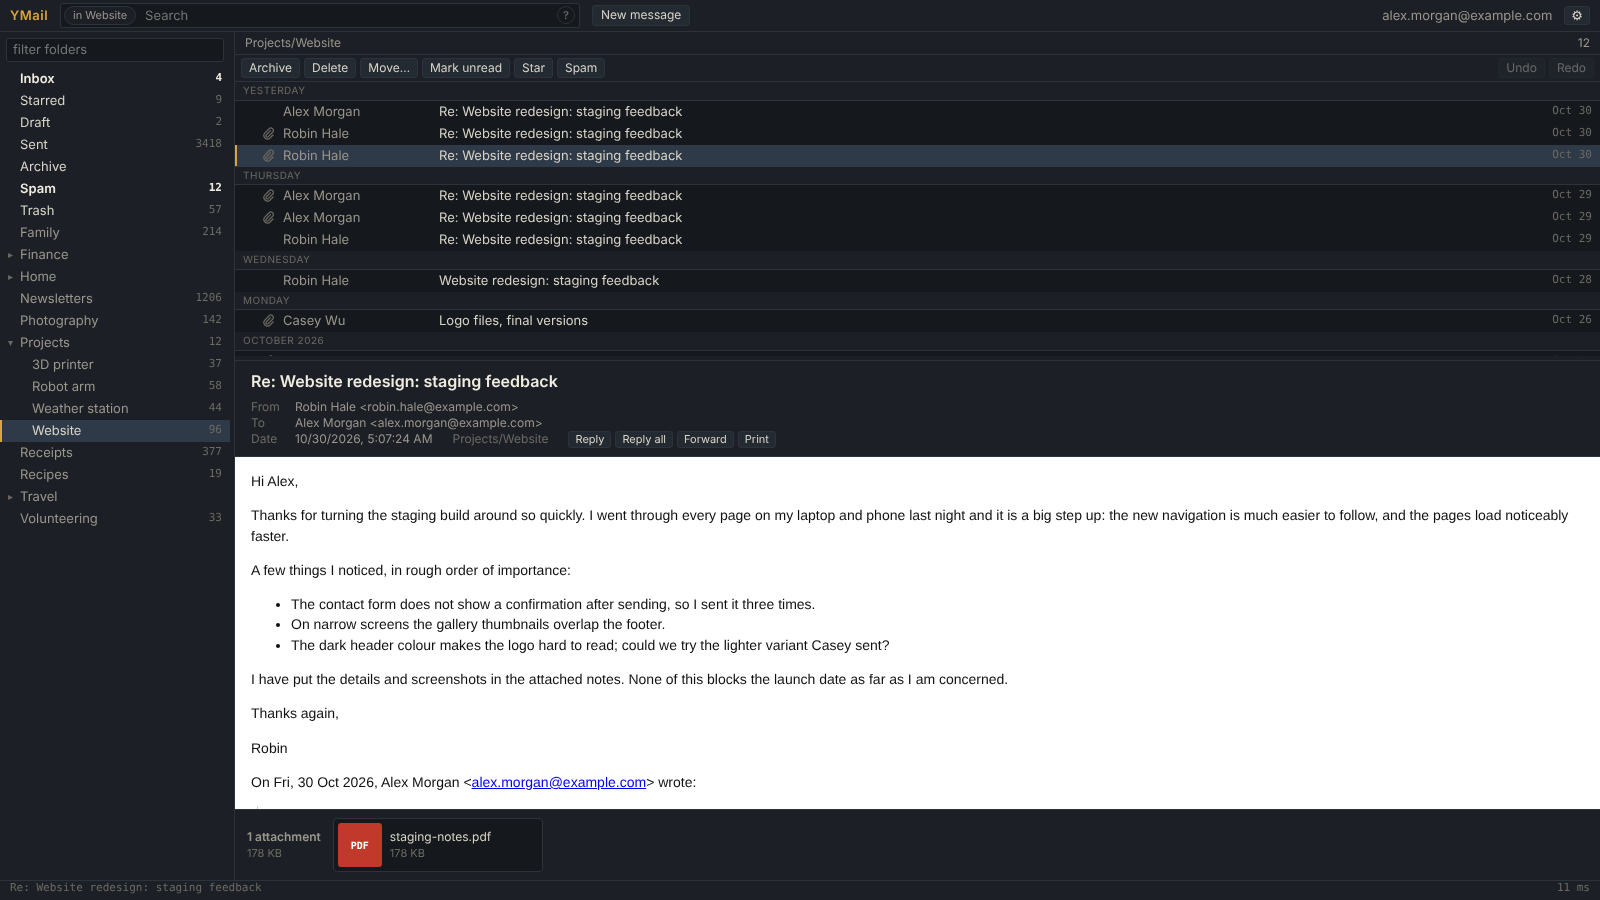
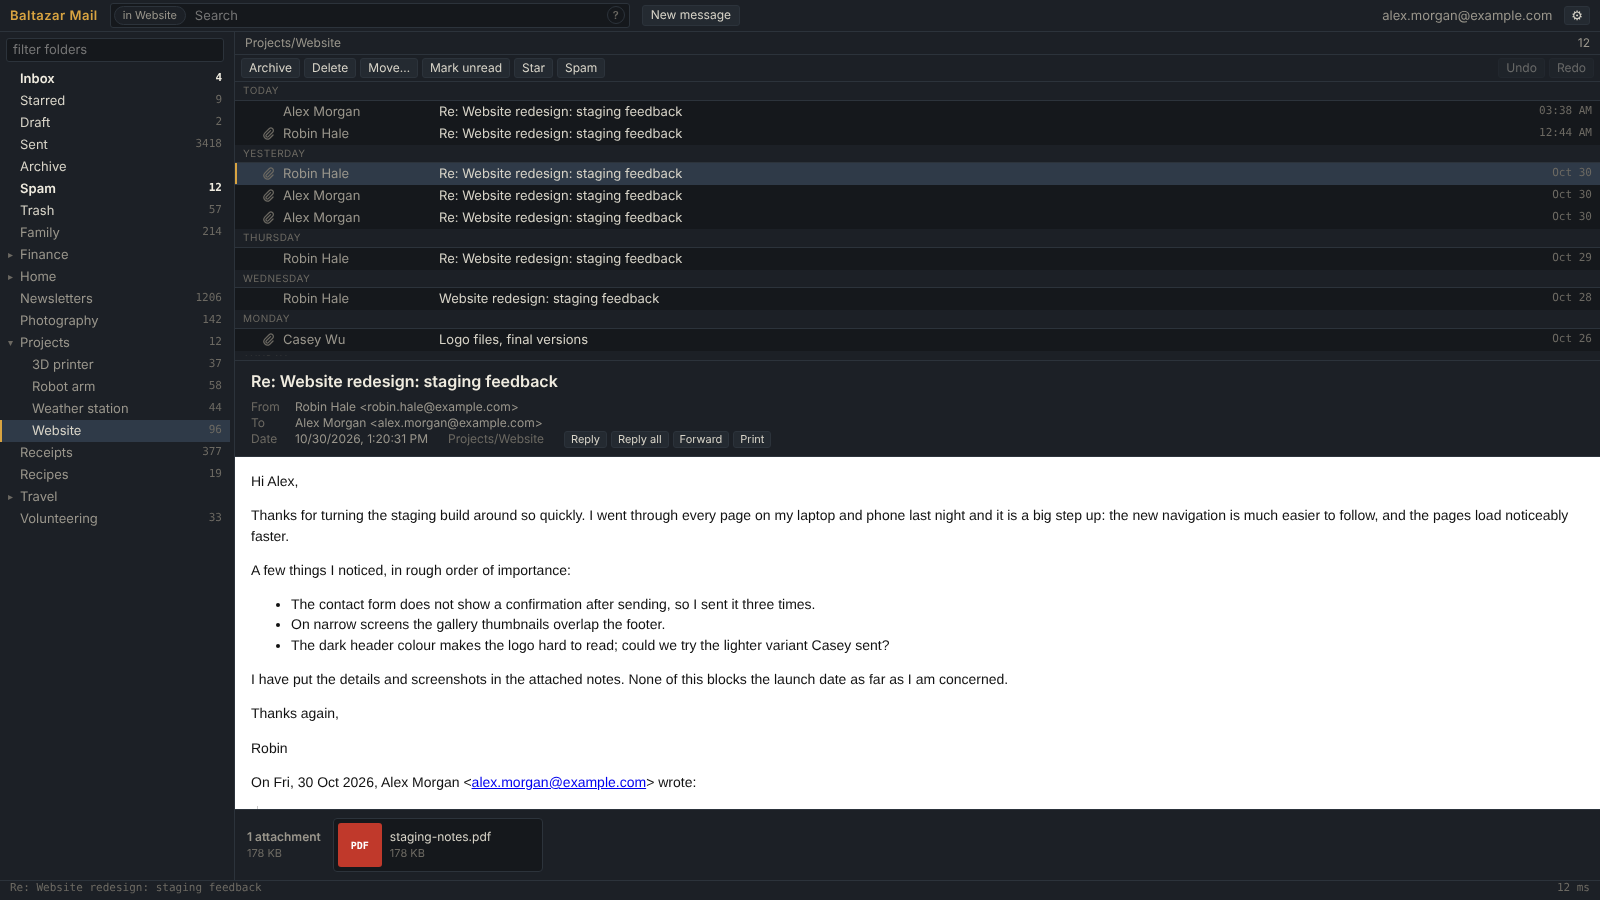
Rename to Baltazar Mail and license under MIT
The name ties the project to Baltazar Studios and avoids any confusion with Yahoo's own names. The third-party libraries keep their Apache-2.0 and MIT licenses.

diff --git a/ext/mail.html b/ext/mail.html
@@ -2,14 +2,14 @@
 <html lang="en">
 <head>
 <meta charset="utf-8">
-<title>YMail</title>
+<title>Baltazar Mail</title>
 <link rel="icon" type="image/png" sizes="32x32" href="icons/32.png">
 <link rel="stylesheet" href="mail.css">
 </head>
 <body>
 <div id="app" class="hidden">
   <header id="top">
-    <span id="brand">YMail</span>
+    <span id="brand">Baltazar Mail</span>
     <span id="search-box"><button id="search-scope" class="hidden" tabindex="-1"></button><input id="search" type="search" placeholder="Search" autocomplete="off" spellcheck="false"><button id="search-help-btn" tabindex="-1" title="How to search">?</button></span>
     <button id="compose-btn" title="New message (c)">New message</button>
     <span id="account"></span>
@@ -122,7 +122,7 @@
   <footer id="status"><span id="st-msg"></span><span id="st-undo"></span><span id="st-lat"></span></footer>
 </div>
 <div id="signin" class="hidden">
-  <h1>YMail</h1>
+  <h1>Baltazar Mail</h1>
   <p>No Yahoo Mail session found in this browser.</p>
   <p><a href="https://mail.yahoo.com/" target="_blank" rel="noopener">Sign in at mail.yahoo.com</a>, then <button id="retry">retry</button>.</p>
 </div>

diff --git a/ext/mail.js b/ext/mail.js
@@ -8,7 +8,7 @@ import { parse, nativeQuery, evaluate, describe, CAP } from "./query.js";
 const $ = id => document.getElementById(id);
 const SYSTEM_ORDER = ["INBOX", "DRAFT", "SENT", "ARCHIVE", "BULK", "TRASH"];
 const PAGE = 100;
-const DRAG_TYPE = "application/x-ymail-ids";
+const DRAG_TYPE = "application/x-baltazar-mail-ids";
 
 // ---------- settings ----------
 const DEFAULTS = { layout: "vertical", theme: "dark", darkTheme: "dark", lightTheme: "light", pollSec: 20, markReadSec: 2, undoSendSec: 10, composeHtml: true, composeFont: "Helvetica Neue, Helvetica, Arial, sans-serif", composeSize: 13, images: "safe", rowH: 22, folderW: 230, listW: 460, listH: 40, expanded: [] };
@@ -220,7 +220,7 @@ async function loadFolders(silent = false) {
 
 function updateTitle() {
   const inbox = folderByType("INBOX");
-  document.title = (inbox?.unread ? `(${inbox.unread}) ` : "") + "YMail";
+  document.title = (inbox?.unread ? `(${inbox.unread}) ` : "") + "Baltazar Mail";
 }
 
 // ---------- list ----------

diff --git a/tools/runtime.js b/tools/runtime.js
@@ -26,7 +26,7 @@ const folders = [
 const accounts = [{ id: "1", email: "me@yahoo.com", sendingName: "Me Myself", isPrimary: true, isSending: true, type: "FREE", signature: "<i>sig</i>", signatureActive: true }];
 
 (async () => {
-  const profile = fs.mkdtempSync(path.join(os.tmpdir(), "ymail-profile-"));
+  const profile = fs.mkdtempSync(path.join(os.tmpdir(), "baltazar-mail-profile-"));
   const ctx = await chromium.launchPersistentContext(profile, { channel: "chromium", headless: true, args: [`--disable-extensions-except=${EXT}`, `--load-extension=${EXT}`] });
   const sw = ctx.serviceWorkers()[0] || await ctx.waitForEvent("serviceworker");
   const extId = new URL(sw.url()).host;

diff --git a/ext/compose.js b/ext/compose.js
@@ -384,7 +384,7 @@ function extractInline(html) {
     const bytes = m[2] ? Uint8Array.from(atob(m[3]), c => c.charCodeAt(0)) : new TextEncoder().encode(decodeURIComponent(m[3]));
     const ext = (mime.split("/")[1] || "png").replace("jpeg", "jpg");
     const name = `inline-${++n}.${ext}`;
-    const contentId = `${Date.now()}-${n}@ymail`;
+    const contentId = `${Date.now()}-${n}@baltazar-mail`;
     inline.push({ file: new File([bytes], name, { type: mime }), contentId });
     img.setAttribute("src", `cid:${contentId}`);
     img.removeAttribute("class"); img.removeAttribute("data-name");

diff --git a/tools/screenshots.js b/tools/screenshots.js
@@ -178,7 +178,7 @@ function listFor(q) {
 
 (async () => {
   fs.mkdirSync(OUT, { recursive: true });
-  const profile = fs.mkdtempSync(path.join(os.tmpdir(), "ymail-shots-"));
+  const profile = fs.mkdtempSync(path.join(os.tmpdir(), "baltazar-mail-shots-"));
   const ctx = await chromium.launchPersistentContext(profile, { channel: "chromium", headless: true, viewport: { width: W, height: H },
     args: [`--disable-extensions-except=${EXT}`, `--load-extension=${EXT}`] });
   const sw = ctx.serviceWorkers()[0] || await ctx.waitForEvent("serviceworker");

diff --git a/ext/contacts.js b/ext/contacts.js
@@ -4,7 +4,7 @@ import * as api from "./api.js";
 // One entry per lowercase address: counts of messages sent to and received from it, the display
 // names seen (the most frequent one is shown), and the last time it was used.
 
-const DB = "ymail-lite", STORE = "contacts", META = "meta";
+const DB = "baltazar-mail", STORE = "contacts", META = "meta";
 let db = null;
 let own = new Set();
 let cache = null;          // Map email -> entry, loaded once; writes go through to IndexedDB

diff --git a/README.md b/README.md
@@ -1,8 +1,10 @@
-# YMail
+# Baltazar Mail
 
-A fast, ad-free front end for Yahoo Mail, packaged as a Chromium (Edge/Chrome) extension. It reuses the Yahoo sign-in already present in the browser and talks to the same API that Yahoo's own web client uses, so it is as quick as the official UI without any of its clutter. Everything works with the mouse; press `?` in the app for keyboard shortcuts.
+A fast, ad-free client for Yahoo Mail, packaged as a Chromium (Edge/Chrome) extension. It reuses the Yahoo sign-in already present in the browser and talks to the same API that Yahoo's own web client uses, so it is as quick as the official UI without any of its clutter. Everything works with the mouse; press `?` in the app for keyboard shortcuts.
 
-![YMail in the light theme: folders, message list and preview, with photo attachments listed under the message](docs/screenshots/light.png)
+Baltazar Mail is an independent project by [Baltazar Studios](https://baltazarstudios.com) and is not affiliated with Yahoo.
+
+![Baltazar Mail in the light theme: folders, message list and preview, with photo attachments listed under the message](docs/screenshots/light.png)
 
 ## Features
 
@@ -26,13 +28,16 @@ All names, addresses and messages in these screenshots are invented; `node tools
 
 ## Install
 
-1. Download `ymail-<version>.zip` from the [latest release](https://github.com/gdevic/ymail/releases/latest) and unzip it into a folder you will keep; it contains one folder, `ymail`.
+1. Download `baltazar-mail-<version>.zip` from the [latest release](https://github.com/gdevic/baltazar-mail/releases/latest) and unzip it into a folder you will keep; it contains one folder, `baltazar-mail`.
 2. Open `edge://extensions` (or `chrome://extensions`) and turn on Developer mode.
-3. Click Load unpacked and select the `ymail` folder.
-4. Be signed in to mail.yahoo.com in the same browser profile, then click the YMail toolbar icon.
+3. Click Load unpacked and select the `baltazar-mail` folder.
+4. Be signed in to mail.yahoo.com in the same browser profile, then click the Baltazar Mail toolbar icon.
 
-To update, unzip the new release over the same `ymail` folder and click Reload on the extensions page. Removing the extension instead would delete its settings and address book. From a clone of this repository, load the `ext/` folder the same way.
+To update, unzip the new release over the same `baltazar-mail` folder and click Reload on the extensions page. Removing the extension instead would delete its settings and address book. From a clone of this repository, load the `ext/` folder the same way.
 
 To publish a release, set `version` in `ext/manifest.json`, commit, and push a matching tag (`git tag v0.13.4 && git push origin v0.13.4`), or run the Release workflow from the Actions tab with that tag. The workflow checks the tag against the manifest, builds the ZIP and creates the release.
 
-YMail relies on an undocumented Yahoo API that can change at any time; what is known about it is in `docs/yahoo-v3.md`. Third-party libraries and their licences are listed in `ext/vendor/README.md`.
+Baltazar Mail relies on an undocumented Yahoo API that can change at any time; what is known about it is in `docs/yahoo-v3.md`. 
+## License
+
+MIT, see [LICENSE](LICENSE). The bundled third-party libraries keep their own licences (Apache-2.0 and MIT), listed in [`ext/vendor/README.md`](ext/vendor/README.md).
